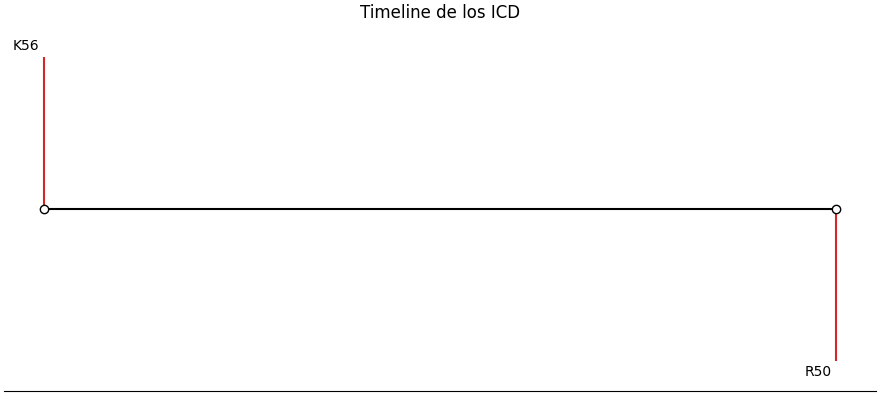
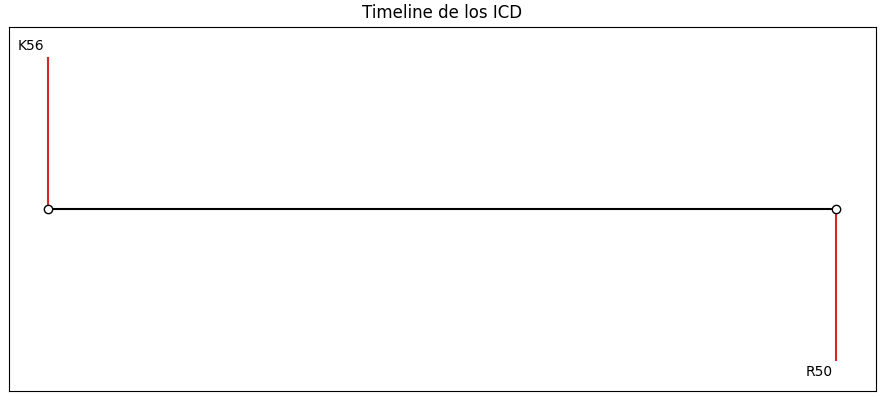
Ejemplo de EHR añadido

diff --git a/functions.py b/functions.py
@@ -1,12 +1,15 @@
-import matplotlib
-import pandas as pd
-
-matplotlib.use('Agg')
-
-import matplotlib.pyplot as plt
-import numpy as np
+# import matplotlib
+# import pandas as pd
+#
+# matplotlib.use('Agg')
+#
+# import matplotlib.pyplot as plt
+# import numpy as np
 import matplotlib.dates as mdates
 from datetime import datetime, timedelta
+import numpy as np
+from annotated_text import annotated_text
+from matplotlib import pyplot as plt
 
 
 def timeline_chart(icds, title="Timeline de los ICD"):
@@ -52,7 +55,7 @@ def timeline_chart(icds, title="Timeline de los ICD"):
     # remove y axis and spines
     ax.yaxis.set_visible(False)
     ax.xaxis.set_visible(False)
-    ax.spines[["left", "top", "right"]].set_visible(False)
+    # ax.spines[["left", "top", "right"]].set_visible(False)
 
     ax.margins(y=0.1)
     plt.savefig("prueba.png")
@@ -62,3 +65,112 @@ def timeline_chart(icds, title="Timeline de los ICD"):
 icds=["R50","K56"]
 timeline_chart(icds)
 
+
+def get_ejemplo_1():
+    return ("HISTORY OF PRESENT ILLNESS\n"
+            "The night of admission he developed a right arm fine tremor that increased in"
+            " intensity over the next hour and he fell forward hitting his face on the ground and became unresponsive. "
+            "At the time he was evaluated, he was nonverbal with right facial droop and questionable right arm weakness. "
+            "Twenty minutes later the patient had a grand tonic clonic seizure in the transport vehicle the patient was "
+            "intubated and brought to the trauma intensive care unit where he was started on dilantin and propofol. "
+            "The patient had a notable chronic bilateral frontal  subdural hygromas and nasal bone fracture."
+            "The patient was admitted to the trauma ctu for repair of the nasal bone fracture. maintained on a p o once "
+            "daily dose of dilantin with stable vital signs and thereafter was transferred to the neurology service for "
+            "further management and etiology of his new grand tonic clonic seizure. \n\n"
+            "PAST MEDICAL HISTORY\n"
+            "hypertension, insulin dependent diabetes mellitus, low grade prostate cancer  and  "
+            "recurrent invasive melanoma"
+            "MEDICATIONS PRIOR TO ADMISSION\n"
+            "lisinopril, humulin, insulin, avandia, aspirin and tylenol\n\n"
+            "HOSPITAL COURSE \n"
+            "The patient was admitted to the neurology service after trauma he sustained for nasal bone fracture. "
+            "The patient was transitioned from dilantin to keppra during the admission for seizure prophylaxis. The "
+            "etiology of the patient s seizures were unresolved at the time of discharge as they could be due to bi "
+            "lateral subdural hydroma collection or possible metastatic melanoma involving cerebrum. The patient had "
+            "no more seizures during the admission and was placed back on his diabetes medication with oxybutynin and "
+            "chloride as patient was having urinary difficulties in the two days prior to discharge the patient was also"
+            " started on lisinopril and aspirin for cardiovascular and stroke prophylaxis. The patient s diet was "
+            "advanced from liquids to full consistency without any difficulty the patient was seen by physical therapy "
+            "and approved for discharge to home with home physical therapy services\n\n"
+            "DISCHARGE STATUS \n"
+            "Home with physical therapy\n\n"
+            "DISCHARGE DIAGNOSIS \n"
+            "Grand tonic clonic seizure of unknown etiology")
+
+def get_ejemplo_1_marked():
+    annotated_text(
+        "HISTORY OF PRESENT ILLNESS\n"
+        "The night of admission he developed a right arm fine tremor that increased in"
+        " intensity over the next hour and he fell forward hitting his face on the ground and became unresponsive. "
+        "At the time he was evaluated, he was nonverbal with right facial droop and questionable right arm weakness. "
+        "Twenty minutes later the patient had a grand tonic clonic seizure in the transport vehicle the patient was "
+        "intubated and brought to the trauma intensive care unit where he was started on dilantin and propofol. "
+        "The patient had a", ("notable chronic bilateral frontal  subdural hygromas","","#a2f5a8"), "and",
+        ("nasal bone fracture.","", "#cea2f5"),
+        "The patient was admitted to the trauma ctu for repair of the ", ("nasal bone fracture","", "#cea2f5"), " maintained on a p o once "
+        "daily dose of dilantin with stable vital signs and thereafter was transferred to the neurology service for "
+        "further management and etiology of his new grand tonic clonic seizure. \n\n"
+        "PAST MEDICAL HISTORY\n",
+        ("hypertension","","#f3f5a2"), ", ",("insulin dependent diabetes mellitus","","#a2c6f5"), ", low grade ",("prostate cancer","","#99f0de"), "  and  "
+        "",("recurrent invasive melanoma","","#f0999f"), "\n\n"
+        "MEDICATIONS PRIOR TO ADMISSION\n"
+        "lisinopril, humulin, insulin, avandia, aspirin and tylenol\n\n"
+        "HOSPITAL COURSE \n"
+        "The patient was admitted to the neurology service after trauma he sustained for ", ("nasal bone fracture","", "#cea2f5"), ". "
+        "The patient was transitioned from dilantin to keppra during the admission for seizure prophylaxis. The "
+        "etiology of the patient s seizures were unresolved at the time of discharge as they could be due to bi "
+        "lateral subdural hydroma collection or possible metastatic melanoma involving cerebrum. The patient had "
+        "no more seizures during the admission and was placed back on his ",("diabetes","","#a2c6f5"), " medication with oxybutynin and "
+        "chloride as patient was having urinary difficulties in the two days prior to discharge the patient was also"
+        " started on lisinopril and aspirin for cardiovascular and stroke prophylaxis. The patient s diet was "
+        "advanced from liquids to full consistency without any difficulty the patient was seen by physical therapy "
+        "and approved for discharge to home with home physical therapy services\n\n"
+        "DISCHARGE STATUS \n"
+        "Home with physical therapy\n\n"
+        "DISCHARGE DIAGNOSIS \n"
+        "Grand tonic clonic seizure of unknown etiology"
+    )
+
+
+def get_ejemplo_1_marked_ICD():
+    annotated_text(
+
+        ("780.39", "", "#fcc23a"), ":Convulsions"
+    )
+
+    annotated_text(
+
+        ("852.20", "", "#a2f5a8"), "Subdural hemorrhage following injury without mention of open intracranial wound, "
+                                "unspecified state of consciousness"
+    )
+
+    annotated_text(
+
+        ("80.20", "", "#cea2f5"), ":Closed fracture of nasal bones"
+    )
+
+    annotated_text(
+
+        ("250.00", "", "#a2c6f5"), ":Diabetes mellitus without mention of complication, type II or unspecified type,"
+                                " not stated as uncontrolled"
+    )
+
+    annotated_text(
+
+        ("401.9", "", "#f3f5a2"), ":Unspecified essential hypertension"
+    )
+
+    annotated_text(
+
+        ("185", "", "#99f0de"), ":Malignant neoplasm of prostate"
+    )
+
+    annotated_text(
+
+        ("V10.82", "", "#f0999f"), ":Personal history of malignant melanoma of skin"
+    )
+
+    annotated_text(
+
+        ("728.89", "", "#a88b49"), ":Other disorders of muscle, ligament, and fascia"
+    )

diff --git a/icd_predictor.py b/icd_predictor.py
@@ -1,7 +1,6 @@
 import time
 
 import pandas as pd
-import seaborn as sns
 import streamlit as st
 # For download buttons
 from annotated_text import annotated_text
@@ -53,9 +52,17 @@ option = st.selectbox("",
 with st.form(key="form_1"):
     st.markdown("## Write document ##")
 
+    ejemplo=""
+    if str(option)== "Ejemplo 1":
+        ejemplo= functions.get_ejemplo_1()
+    else:
+        ejemplo=option
+
+    print(option)
+    print(ejemplo)
     doc = st.text_area(
         "Escribe el documento aquí (maximo 500 palabras)",
-        height=510, value=option
+        height=510, value=ejemplo
     )
 
     MAX_WORDS = 500
@@ -83,23 +90,24 @@ if not submit_button:
 
 st.markdown("### Registro clínico ###")
 
-annotated_text(
-    "El paciente presenta", ("fiebre", "", "#8ef"), "dolor abdominal e hinchazón en el abdomen. ",
-    "Posible cuadro de ", ("obstrucción intestinal", "", "#faa")
-)
-
+# annotated_text(
+#     "El paciente presenta", ("fiebre", "", "#8ef"), "dolor abdominal e hinchazón en el abdomen. ",
+#     "Posible cuadro de ", ("obstrucción intestinal", "", "#faa")
+# )
+functions.get_ejemplo_1_marked()
 st.write("\n\n\n")
 
 with st.expander("Códigos ICD identificados", expanded=False):
-    annotated_text(
-
-        ("R50", "", "#8ef"), ":Fever of other and unknown origin"
-    )
-
-    annotated_text(
-
-        ("K56", "", "#faa"), "Paralytic ileus and intestinal obstruction without hernia"
-    )
+    functions.get_ejemplo_1_marked_ICD()
+    # annotated_text(
+    #
+    #     ("R50", "", "#8ef"), ":Fever of other and unknown origin"
+    # )
+    #
+    # annotated_text(
+    #
+    #     ("K56", "", "#faa"), "Paralytic ileus and intestinal obstruction without hernia"
+    # )
 
 
 st.write("\n\n")
